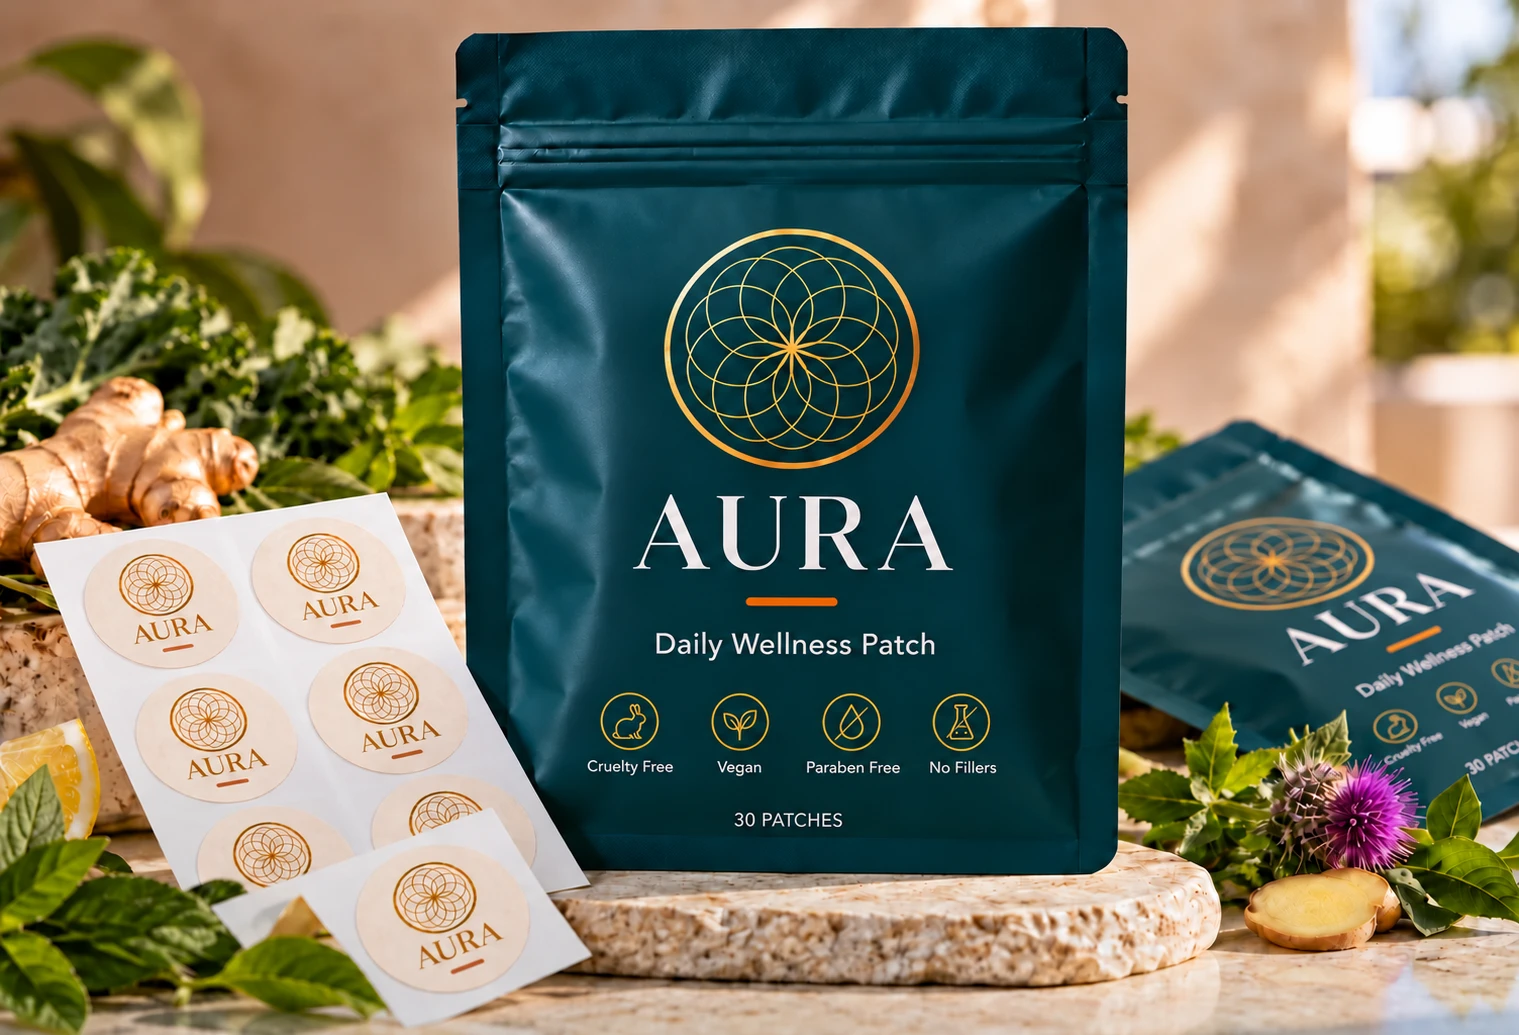
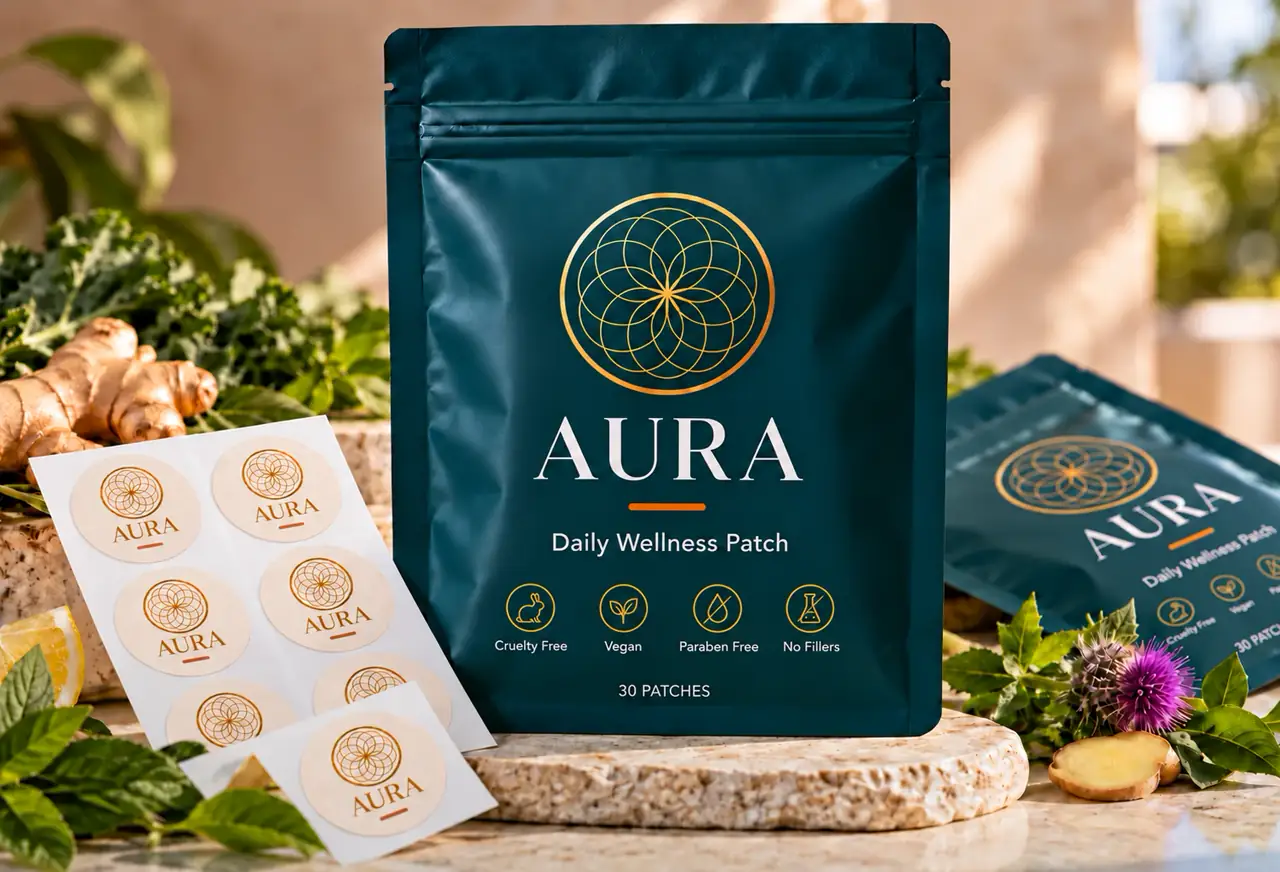
Serve a smaller investor photo without on-the-fly image optimization.
The hero file is 1280 pixels wide and about 80KB, and the page loads that static file directly.

diff --git a/apps/storefront/src/app/[countryCode]/(main)/investors/page.tsx b/apps/storefront/src/app/[countryCode]/(main)/investors/page.tsx
@@ -41,7 +41,7 @@ export default function InvestorsPage() {
             alt="Aura daily wellness pouch with cream patches, gold AURA lettering and gold floral emblems, ginger, and greens"
             fill
             priority
-            quality={90}
+            unoptimized
             className="object-cover object-center"
             sizes="(max-width: 1024px) 92vw, 640px"
           />
